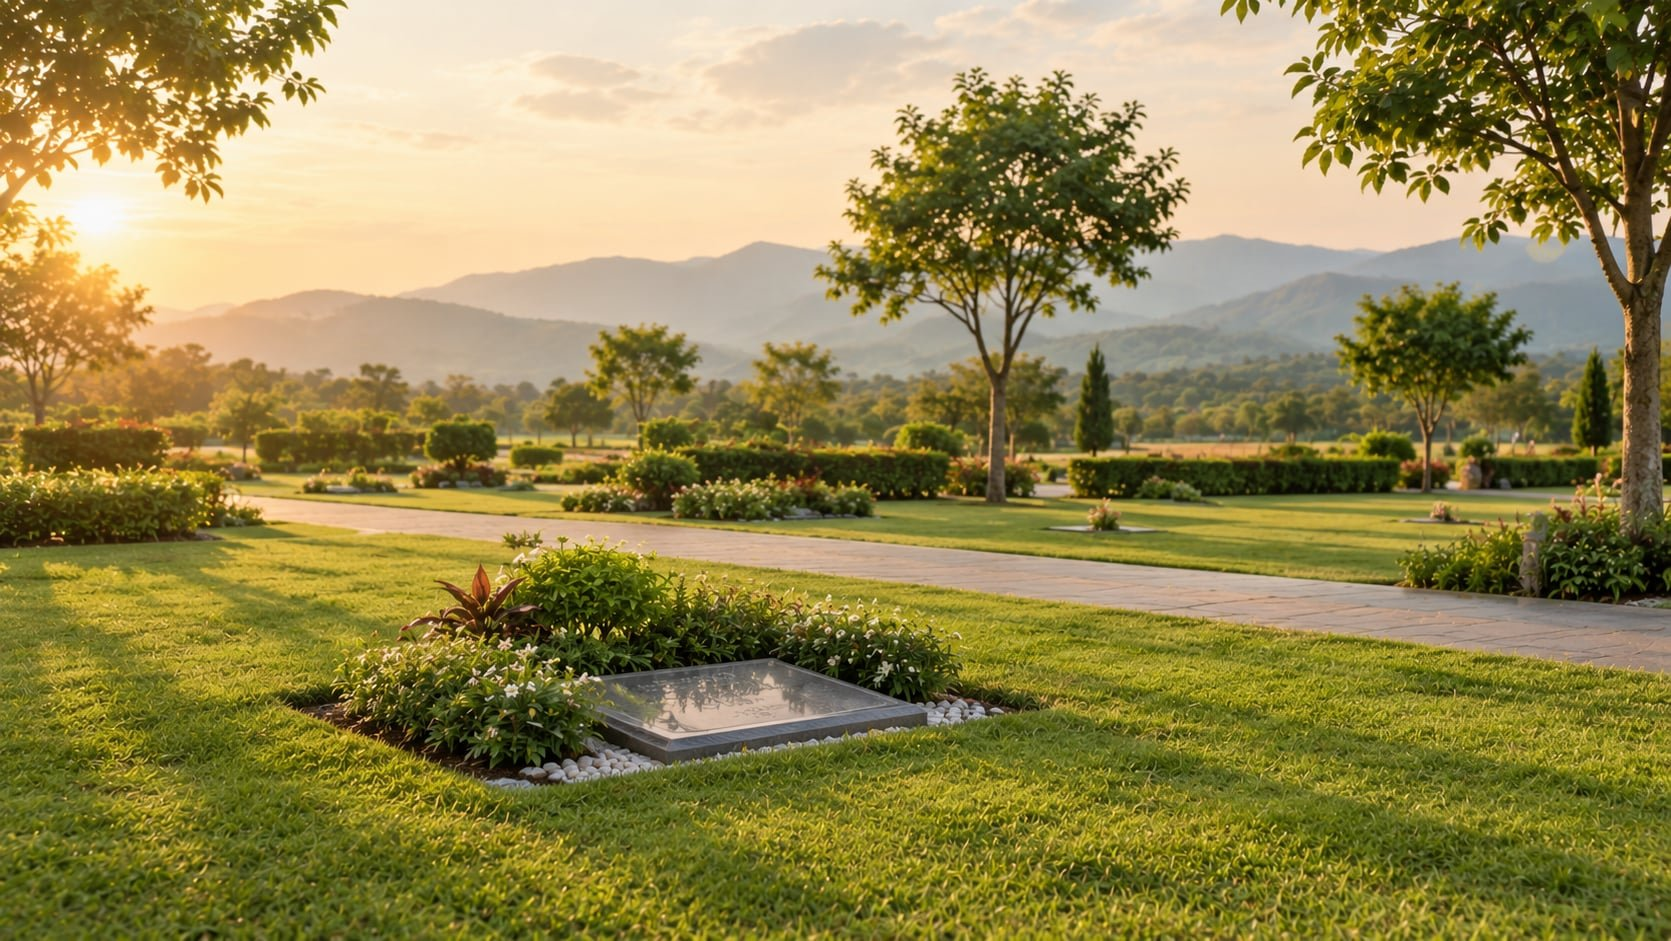
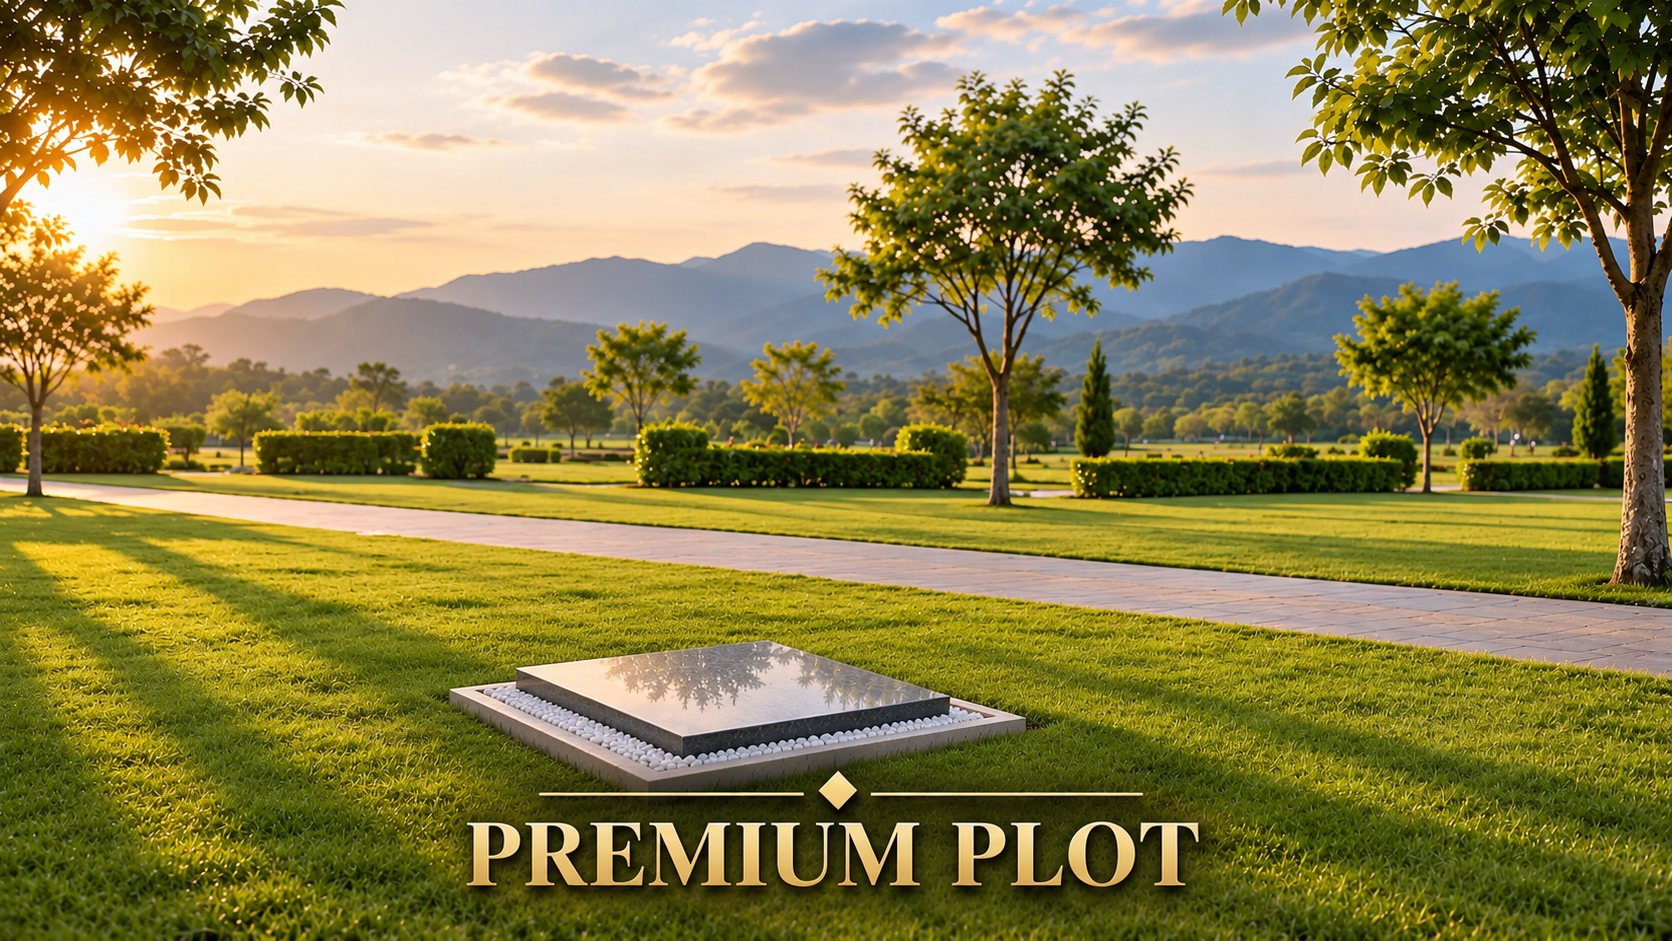
New pictures for Premium, Premium Garden and Corner Premium Garden plots
Claude-Session: https://claude.ai/code/session_01JTRCdx9LUP5dwVjshN4oRw

diff --git a/site.jsx b/site.jsx
@@ -246,7 +246,7 @@ function LightboxRoot({ children }) {
 }
 
 /* The new plot pictures are tall (5:6) with the title built in, so they get a tall frame instead of being cropped. */
-const PORTRAIT_IMAGES = ['/regular_plot.jpg', '/corner_premium_plot.jpg', '/regular_garden_plot.jpg', '/family_vault.jpg', '/valor_plot.jpg', '/mausoleum_elysian.jpg', '/mausoleum_serenity.jpg', '/mausoleum_solace.jpg'];
+const PORTRAIT_IMAGES = ['/regular_plot.jpg', '/corner_premium_plot.jpg', '/regular_garden_plot.jpg', '/family_vault.jpg', '/valor_plot.jpg', '/corner_prime_garden_plot.jpg', '/premium_garden_plot.jpg', '/mausoleum_elysian.jpg', '/mausoleum_serenity.jpg', '/mausoleum_solace.jpg'];
 const isPortraitImage = (src) => PORTRAIT_IMAGES.includes(src);
 
 /* Clickable photo frame — drop-in replacement for a bare .ph placeholder */
